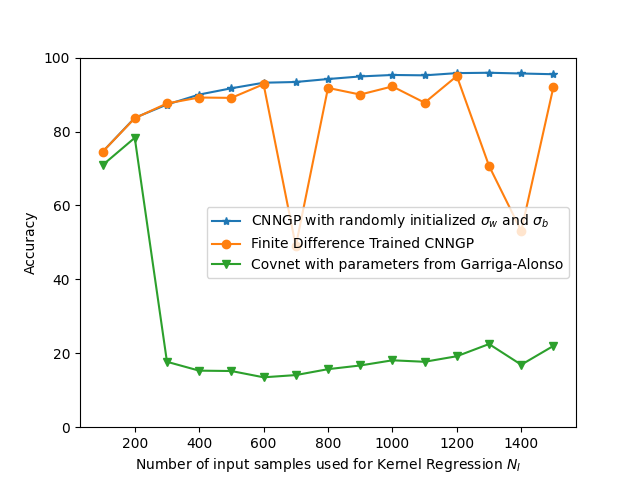
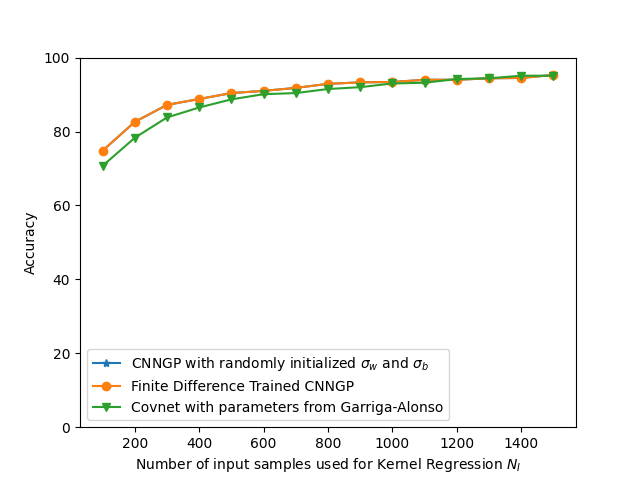
Added experiment for training Alonso et al covnet with BO and FD

diff --git a/exp_kf_cnngp/kernel_flow_bayesian_optimization.py b/exp_kf_cnngp/kernel_flow_bayesian_optimization.py
@@ -34,11 +34,15 @@ def main(_):
 
         Y_predictions_rand_cnngp_labels = get_label_from_probability(Y_predictions_rand_cnngp)
         rand_acc.append(accuracy_score(Y_predictions_rand_cnngp_labels, Y_test.cpu().numpy()) * 100)
-        
+
+    plt.plot(rand_acc)
+    plt.ylim((0,100))
+    plt.show()
+      
     # Training with Bayesian Optimization
-    parameter_bounds = [(1e-3, 100.0), (0.0, 100.0)]
+    parameter_bounds = [(1e-3, 200.0), (0.0, 200.0)]
     KF_BO = KernelFlowsTorch(cnn_gp, device=DEVICE, regularization_lambda=1e-4)
-    res = KF_BO.fit(X_train, Y_train, iterations=50, batch_size=1200, 
+    res = KF_BO.fit(X_train, Y_train, iterations=30, batch_size=1200, 
                     sample_proportion=0.5, parameter_bounds_BO=parameter_bounds, 
                     random_starts=15, method='bayesian optimization')
 
@@ -58,7 +62,11 @@ def main(_):
         bo_acc.append(accuracy_score(Y_predictions_trained_labels, Y_test.cpu().numpy()) * 100)
 
     fig, ax = plt.subplots(1,1)
-    ax.plot(N_i_arr, rand_acc, '-*', label='CNNGP with randomly initialized $\sigma_w$ and $\sigma_b$')
+    if FLAGS.CNNGP_model == 'alonso_etal_covnet':
+        ax.plot(N_i_arr, rand_acc, '-*', label='Covnet with parameters from Garriga-Alonso')
+    else:
+        ax.plot(N_i_arr, rand_acc, '-*', label='CNNGP with randomly initialized $\sigma_w$ and $\sigma_b$')
+        
     ax.plot(N_i_arr, bo_acc, '-o', label='Bayesian Optimization Trained CNNGP')
 
     # If experiment is done with covnet then the covnet model in Alonso et al is also compared

diff --git a/configs/kernel_flow_configs.py b/configs/kernel_flow_configs.py
@@ -24,6 +24,7 @@ def get_CNNGP(model_name: str = 'covnet', device: str = 'cpu')-> NNGPKernel:
                 Conv2d(kernel_size=28, padding=0),
                 )
     elif model_name == 'simple':
+        print("Selected simple 3 layer network")
         cnn_gp = Sequential(var_weight, var_bias,
                 Conv2d(kernel_size=3),
                 ReLU(),
@@ -32,6 +33,7 @@ def get_CNNGP(model_name: str = 'covnet', device: str = 'cpu')-> NNGPKernel:
                 Conv2d(kernel_size=14, padding=0),  # equivalent to a dense layer
                 )
     elif model_name == "alonso_etal_covnet":
+        print("Selected alonso et al covnet")
         var_bias = 7.86
         var_weight = 2.79
         layers = []

diff --git a/exp_kf_cnngp/kernel_flow_finite_difference.py b/exp_kf_cnngp/kernel_flow_finite_difference.py
@@ -65,7 +65,11 @@ def main(_):
     print(f"""Final Parameters: var_weight = {cnn_gp.var_weight}, var_bias = {cnn_gp.var_bias}""")
 
     fig, ax = plt.subplots(1,1)
-    ax.plot(N_i_arr, rand_acc, '-*', label='CNNGP with randomly initialized $\sigma_w$ and $\sigma_b$')
+    if FLAGS.CNNGP_model == 'alonso_etal_covnet':
+        ax.plot(N_i_arr, rand_acc, '-*', label='Covnet with parameters from Garriga-Alonso')
+    else:
+        ax.plot(N_i_arr, rand_acc, '-*', label='CNNGP with randomly initialized $\sigma_w$ and $\sigma_b$')
+
     ax.plot(N_i_arr, trained_acc, '-o', label='Finite Difference Trained CNNGP')
 
     # If experiment is done with covnet then the covnet model in Alonso et al is also compared
